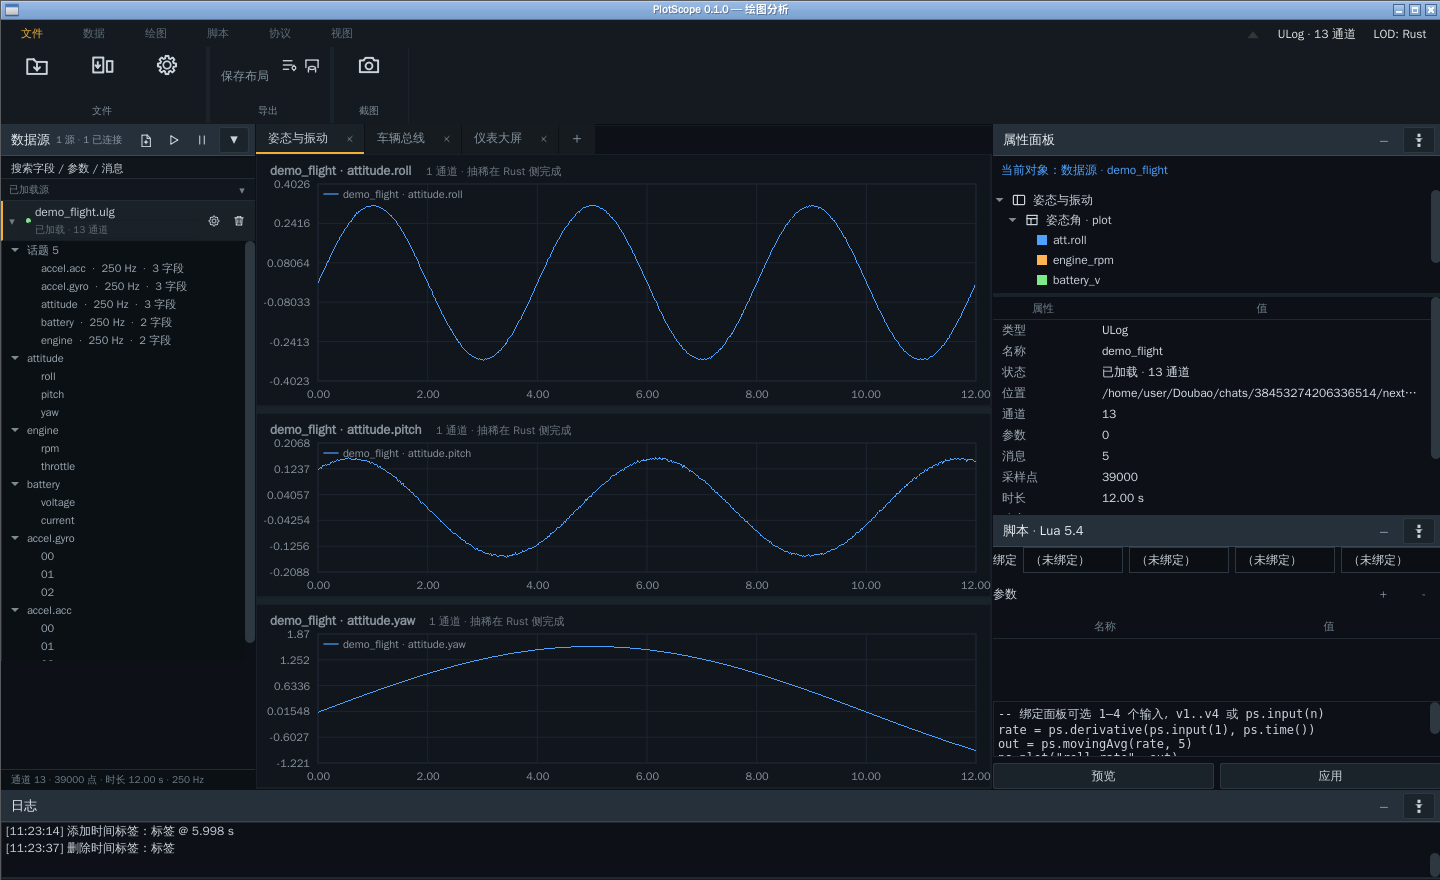
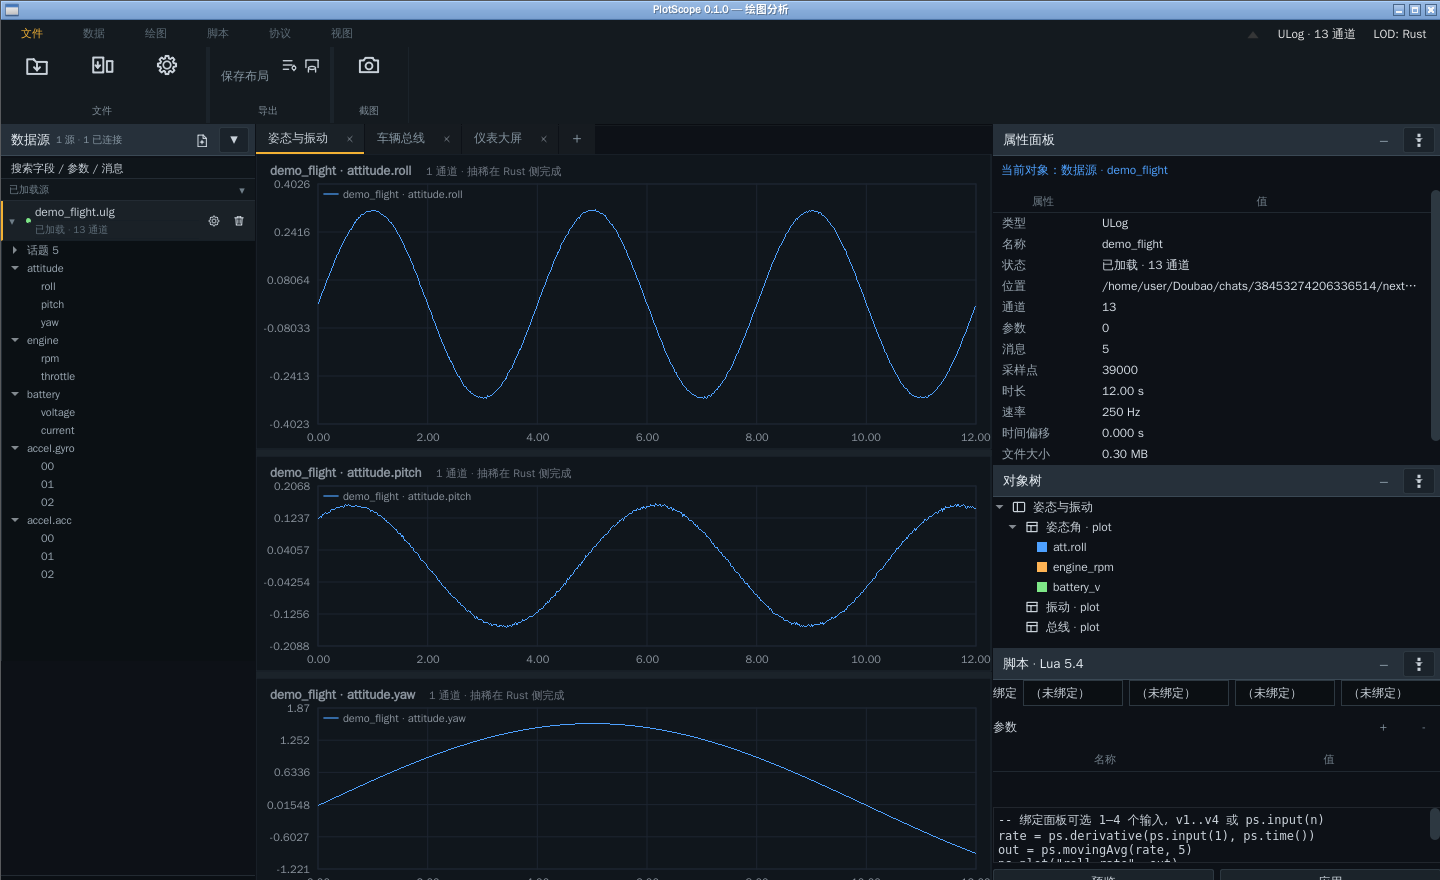
feat(ui): 对象树独立 Dock，实时源起停下放到源行

diff --git a/src/app/shell/MainWindow.cpp b/src/app/shell/MainWindow.cpp
@@ -1426,8 +1426,6 @@ void MainWindow::createDocks()
         for (const QString &f : fs)
             loadFile(f);
     });
-    auto *runBtn = mkTiny(QStringLiteral("play"), QStringLiteral("全部开始"));
-    auto *pauseBtn = mkTiny(QStringLiteral("pause"), QStringLiteral("全部暂停"));
     auto *dockMenuBtn = new QToolButton(srcBar);
     dockMenuBtn->setText(QStringLiteral("▾"));
     dockMenuBtn->setToolTip(QStringLiteral("停靠 / 收起"));
@@ -1823,17 +1821,6 @@ void MainWindow::createDocks()
     srcDock->setWidget(srcHost);
     addDockWidget(Qt::LeftDockWidgetArea, srcDock);
 
-    connect(runBtn, &QToolButton::clicked, this, [this] {
-        m_livePaused = false;
-        updateStatusChips();
-        log(QStringLiteral("实时源继续"));
-    });
-    connect(pauseBtn, &QToolButton::clicked, this, [this] {
-        m_livePaused = true;
-        updateStatusChips();
-        log(QStringLiteral("实时源暂停"));
-    });
-
     // 右：属性面板（命中什么对象就显示什么属性）
     auto *propDock = new QDockWidget(QStringLiteral("属性面板"), this);
     propDock->setObjectName(QStringLiteral("dock.prop"));
@@ -1844,29 +1831,35 @@ void MainWindow::createDocks()
     m_selLabel = new QLabel(QStringLiteral("当前对象：画布"), propHost);
     m_selLabel->setContentsMargins(8, 6, 8, 6);
     m_selLabel->setStyleSheet(QStringLiteral("color:#4ea1ff;"));
-    auto *propSplit = new QSplitter(Qt::Vertical, propHost);
-    propSplit->setHandleWidth(4);
-    m_propTree = new QTreeWidget(propSplit);
-    m_propTree->setHeaderHidden(true);
-    m_propTree->setColumnCount(1);
-    m_propTree->setRootIsDecorated(true);
-    m_propTree->setIndentation(13);
-    m_propTree->setUniformRowHeights(true);
-    m_propTree->setStyleSheet(QStringLiteral(
-        "QTreeWidget{border:0;background:#0d1117;font-size:12px;}"
-        "QTreeWidget::item{height:20px;color:#c9d1d9;}"
-        "QTreeWidget::item:selected{background:#1f2a33;color:#f2b134;}"));
-    m_propTable = new QTableWidget(0, 2, propSplit);
+    m_propTable = new QTableWidget(0, 2, propHost);
     m_propTable->setHorizontalHeaderLabels({QStringLiteral("属性"), QStringLiteral("值")});
     m_propTable->horizontalHeader()->setStretchLastSection(true);
     m_propTable->verticalHeader()->setVisible(false);
     m_propTable->setShowGrid(false);
     compactValueTable(m_propTable);
-    propSplit->addWidget(m_propTree);
-    propSplit->addWidget(m_propTable);
-    propSplit->setSizes({152, 320});
     propLay->addWidget(m_selLabel);
-    propLay->addWidget(propSplit, 1);
+    propLay->addWidget(m_propTable, 1);
+
+    // 顶右：对象树独立 Dock（属性面板只保留属性表）
+    auto *treeDock = new QDockWidget(QStringLiteral("对象树"), this);
+    treeDock->setObjectName(QStringLiteral("dock.tree"));
+    treeDock->setMinimumHeight(180);
+    auto *treeHost = new QWidget(treeDock);
+    auto *treeLay = new QVBoxLayout(treeHost);
+    treeLay->setContentsMargins(0, 0, 0, 0);
+    m_propTree = new QTreeWidget(treeHost);
+    m_propTree->setHeaderHidden(true);
+    m_propTree->setColumnCount(1);
+    m_propTree->setRootIsDecorated(true);
+    m_propTree->setIndentation(13);
+    m_propTree->setUniformRowHeights(true);
+    m_propTree->setMinimumHeight(150);
+    m_propTree->setStyleSheet(QStringLiteral(
+        "QTreeWidget{border:0;background:#0d1117;font-size:12px;}"
+        "QTreeWidget::item{height:20px;color:#c9d1d9;}"
+        "QTreeWidget::item:selected{background:#1f2a33;color:#f2b134;}"));
+    treeLay->addWidget(m_propTree);
+    treeDock->setWidget(treeHost);
     connect(m_propTree, &QTreeWidget::currentItemChanged, this,
             [this](QTreeWidgetItem *it, QTreeWidgetItem *) {
         if (m_propTreeBuilding || !it)
@@ -1883,6 +1876,8 @@ void MainWindow::createDocks()
     });
     propDock->setWidget(propHost);
     addDockWidget(Qt::RightDockWidgetArea, propDock);
+    addDockWidget(Qt::RightDockWidgetArea, treeDock);
+    splitDockWidget(propDock, treeDock, Qt::Vertical);
     setPropRows(QStringLiteral("画布"),
                 {{QStringLiteral("提示"), QStringLiteral("选中绘图页签后显示属性")},
                  {QStringLiteral("Y 轴"), QStringLiteral("线性 · 滚轮缩放 / 拖动平移 / 双击复位")}});
@@ -2073,9 +2068,12 @@ void MainWindow::showSourceMenu(QWidget *row, const QPoint &globalPos)
     const QString path = row->property("srcPath").toString();
 
     QMenu menu(this);
-    QAction *toggle = menu.addAction(backed ? QStringLiteral("暂停数据源")
-                                            : QStringLiteral("开始数据源"));
-    toggle->setEnabled(backed);
+    SourceData *pauseSrc = sourceById(sourceIdForRow(row));
+    const bool live = pauseSrc && pauseSrc->live;
+    QAction *toggle = menu.addAction(live
+        ? (pauseSrc->paused ? QStringLiteral("继续数据源") : QStringLiteral("暂停数据源"))
+        : QStringLiteral("开始数据源"));
+    toggle->setEnabled(live);
     QAction *reload = menu.addAction(QStringLiteral("重新加载"));
     reload->setEnabled(!path.isEmpty());
     QAction *rename = menu.addAction(QStringLiteral("重命名"));
@@ -2128,21 +2126,8 @@ void MainWindow::showSourceMenu(QWidget *row, const QPoint &globalPos)
     }
     if (chosen == toggle)
     {
-        QList<QLabel *> labels = row->findChildren<QLabel *>();
-        QLabel *meta = labels.value(2, nullptr);
-        if (!meta)
-            return;
-        const QString cur = meta->text();
-        if (cur.contains(QStringLiteral("已暂停")))
-        {
-            meta->setText(row->property("srcMeta").toString());
-            log(QStringLiteral("开始数据源：%1").arg(row->property("srcName").toString()));
-        }
-        else
-        {
-            meta->setText(QStringLiteral("已暂停 · %1").arg(cur.section(QStringLiteral("·"), 1).trimmed()));
-            log(QStringLiteral("暂停数据源：%1").arg(row->property("srcName").toString()));
-        }
+        if (SourceData *src = sourceById(sourceIdForRow(row)))
+            setSourcePaused(src, !src->paused);
     }
     else if (chosen == reload)
     {
@@ -2283,8 +2268,13 @@ void MainWindow::updateStatusChips()
         channels += s.channels.size();
     if (m_sources.isEmpty())
         m_chipSource->setText(QStringLiteral("无数据"));
-    else if (m_livePaused)
-        m_chipSource->setText(QStringLiteral("%1 源 · 已暂停").arg(m_sources.size()));
+    else if (std::any_of(m_sources.cbegin(), m_sources.cend(),
+                         [](const SourceData &s) { return s.live && s.paused; }))
+    {
+        const int paused = int(std::count_if(m_sources.cbegin(), m_sources.cend(),
+                                             [](const SourceData &s) { return s.live && s.paused; }));
+        m_chipSource->setText(QStringLiteral("%1 源 · %2 暂停").arg(m_sources.size()).arg(paused));
+    }
     else if (m_sources.size() == 1)
         m_chipSource->setText(QStringLiteral("%1 · %2 通道")
                                   .arg(m_sources.first().fmt)
@@ -2875,11 +2865,9 @@ void MainWindow::configureLiveSource(SourceData *src)
 
 void MainWindow::pollLiveSources()
 {
-    if (m_livePaused)
-        return;
     for (SourceData &src : m_sources)
     {
-        if (!src.live || !src.handle || !src.liveSession)
+        if (!src.live || src.paused || !src.handle || !src.liveSession)
             continue;
         const DataInputPlugin *sp = DataInputRegistry::instance().findSourceById(src.sourceId);
         if (!sp)
@@ -3167,6 +3155,29 @@ QWidget *MainWindow::addSourceRow(const QString &name, const QString &meta, cons
     colLay->addWidget(metaLb);
     lay->addWidget(col, 1);
 
+    const SourceData *rowSrc = sourceById(srcId);
+    const bool isLive = rowSrc && rowSrc->live;
+
+    // 实时源才给运行控制；文件源没有“暂停/继续”的概念。
+    auto *pauseBtn = new QToolButton(row);
+    pauseBtn->setObjectName(QStringLiteral("srcPause"));
+    pauseBtn->setIcon(QIcon(rowSrc && rowSrc->paused ? QStringLiteral(":/icons/play.svg")
+                                                      : QStringLiteral(":/icons/pause.svg")));
+    pauseBtn->setIconSize(QSize(14, 14));
+    pauseBtn->setToolTip(rowSrc && rowSrc->paused ? QStringLiteral("继续该实时源")
+                                                   : QStringLiteral("暂停该实时源"));
+    pauseBtn->setCursor(Qt::PointingHandCursor);
+    pauseBtn->setFixedSize(20, 20);
+    pauseBtn->setStyleSheet(QStringLiteral(
+        "QToolButton{background:transparent;border:0;padding:0;}"
+        "QToolButton:hover{background:#222b33;border-radius:2px;}"));
+    pauseBtn->setVisible(isLive);
+    lay->addWidget(pauseBtn);
+    connect(pauseBtn, &QToolButton::clicked, this, [this, srcId] {
+        if (SourceData *src = sourceById(srcId))
+            setSourcePaused(src, !src->paused);
+    });
+
     auto *dbg = new QToolButton(row);
     dbg->setIcon(QIcon(QStringLiteral(":/icons/script.svg")));
     dbg->setIconSize(QSize(14, 14));
@@ -3177,10 +3188,10 @@ QWidget *MainWindow::addSourceRow(const QString &name, const QString &meta, cons
         "QToolButton{background:transparent;border:0;padding:0;}"
         "QToolButton:hover{background:#222b33;border-radius:2px;}"));
     bool hasDebug = false;
-    if (const SourceData *src = sourceById(srcId))
+    if (rowSrc)
     {
-        const DataInputPlugin *sp = DataInputRegistry::instance().findSourceById(src->sourceId);
-        hasDebug = src->live && sp && sp->send;
+        const DataInputPlugin *sp = DataInputRegistry::instance().findSourceById(rowSrc->sourceId);
+        hasDebug = isLive && sp && sp->send;
     }
     dbg->setVisible(hasDebug);
     lay->addWidget(dbg);
@@ -3487,6 +3498,29 @@ void MainWindow::updateSrcStatus()
                              .arg(duration, 0, 'f', 2)
                              .arg(rateText));
     m_srcStatus->setToolTip(m_srcStatus->text());
+}
+
+void MainWindow::setSourcePaused(SourceData *src, bool paused)
+{
+    if (!src || !src->live)
+        return;
+    src->paused = paused;
+    if (src->row)
+    {
+        if (QLabel *meta = src->row->findChild<QLabel *>(QStringLiteral("srcMeta")))
+        {
+            const QString base = src->row->property("srcMeta").toString();
+            meta->setText(paused ? QStringLiteral("已暂停 · %1").arg(base) : base);
+        }
+        if (QToolButton *btn = src->row->findChild<QToolButton *>(QStringLiteral("srcPause")))
+        {
+            btn->setIcon(QIcon(paused ? QStringLiteral(":/icons/play.svg")
+                                      : QStringLiteral(":/icons/pause.svg")));
+            btn->setToolTip(paused ? QStringLiteral("继续该实时源") : QStringLiteral("暂停该实时源"));
+        }
+    }
+    updateStatusChips();
+    log(QStringLiteral("%1实时源：%2").arg(paused ? QStringLiteral("暂停") : QStringLiteral("继续"), src->name));
 }
 
 void MainWindow::showSourceProps(QWidget *row)

diff --git a/src/app/shell/MainWindow.h b/src/app/shell/MainWindow.h
@@ -58,6 +58,7 @@ struct SourceData
 
     // 实时源：ds 为空，通道视图由 LiveSession 持有；handle 归插件所有。
     bool live = false;
+    bool paused = false;       // 仅实时源：暂停轮询
     bool plotted = false;
     QString sourceId;
     QString config;
@@ -141,6 +142,7 @@ private:
     void syncSrcChips();
     void updateSrcStatus();
     void showSourceProps(QWidget *row);
+    void setSourcePaused(SourceData *src, bool paused);
     void addTimeMarker(double t, const QString &label, bool prompt);
     void removeTimeMarker(double t);
     void applyTimeMarkers();
@@ -154,7 +156,6 @@ private:
     QLabel *m_srcCount = nullptr;          // “0 源 · 0 已连接”
     QTimer *m_liveTimer = nullptr;
     qint64 m_liveUiMs = 0;
-    bool m_livePaused = false;
     bool m_viewBacked = false;            // 当前选中的数据源是否持有内核数据集
     QString m_srcFmt;                     // 当前源的格式标签（ULog/CSV/...）
     QVector<const PsChannelInfo *> m_srcChannels;
